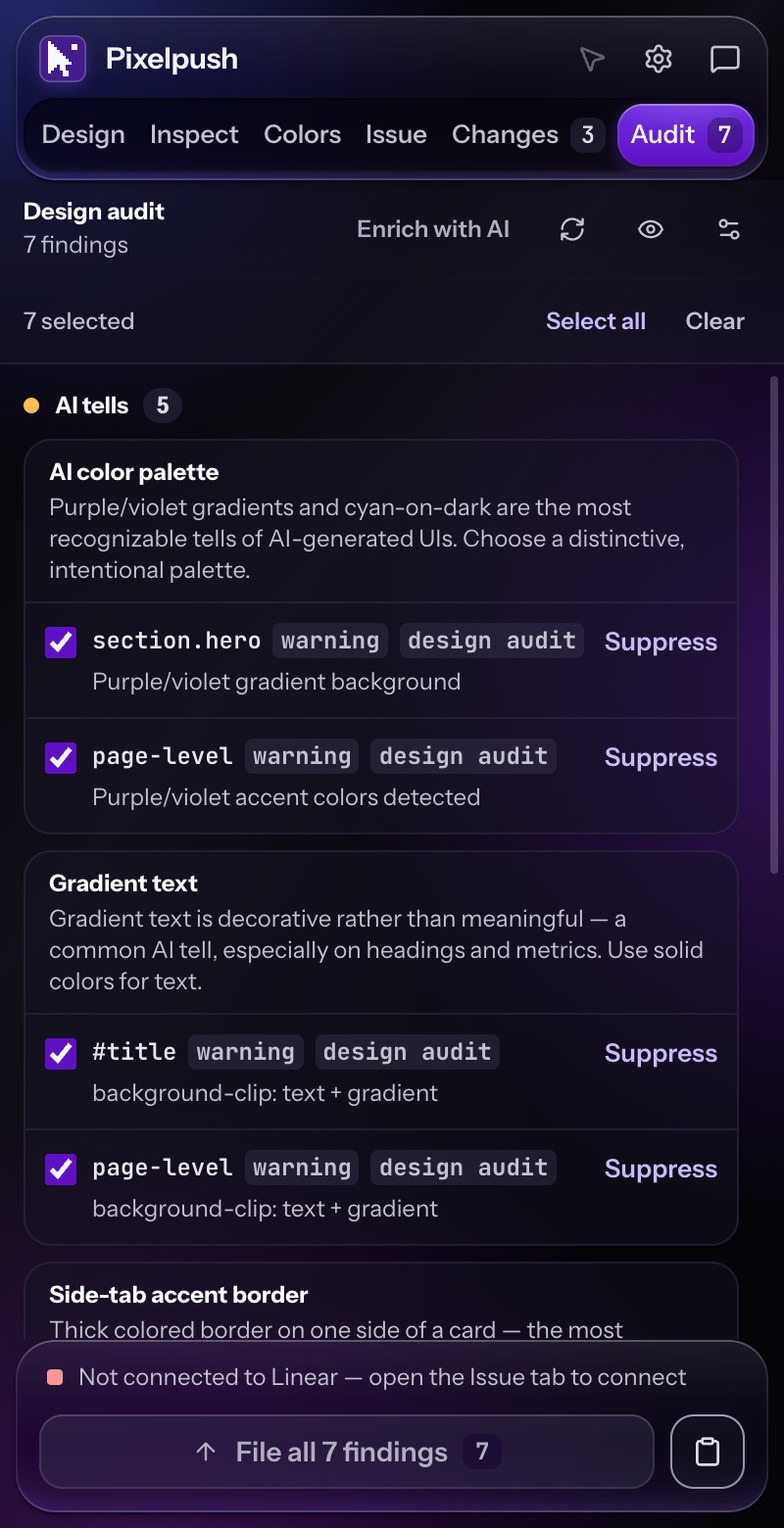
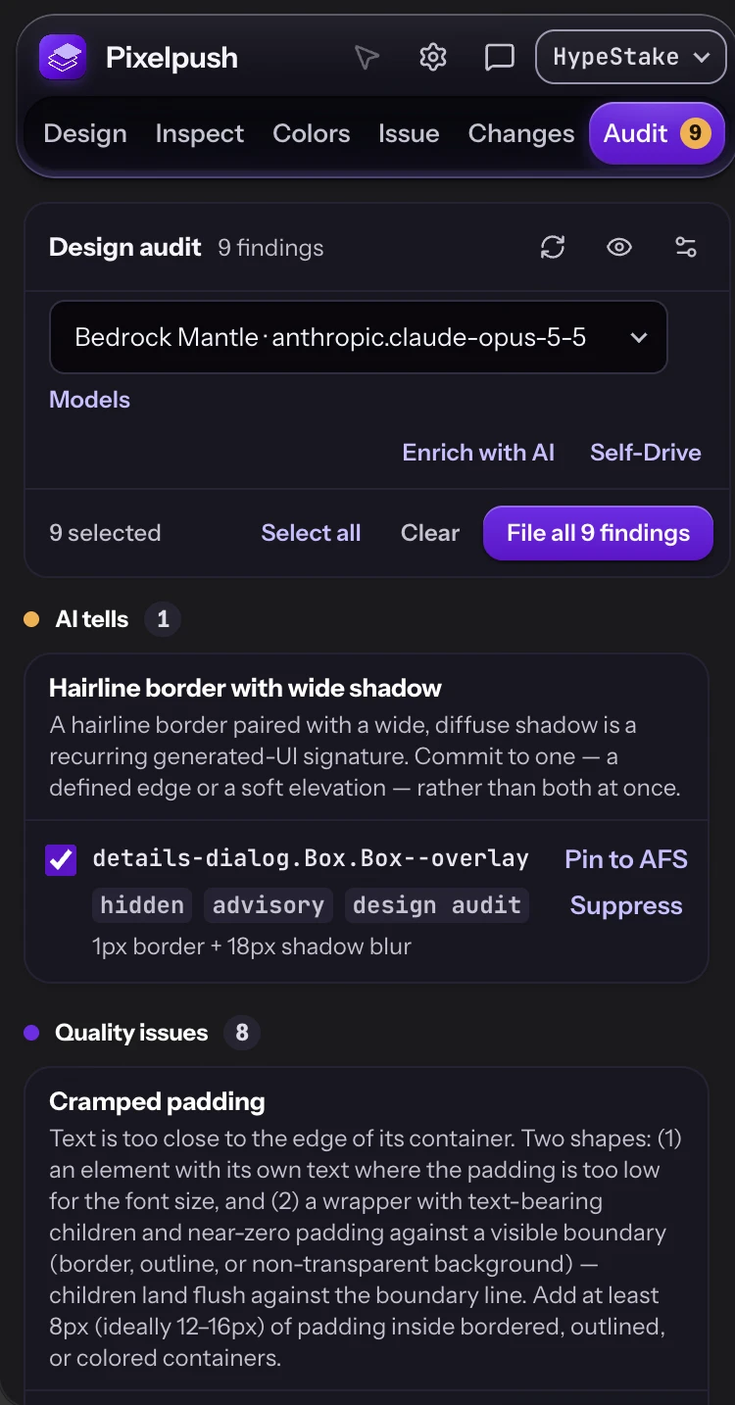
Refresh README and panel screenshots
Replace the Design, Inspect, Issue, Changes and Audit captures with current
ones, regenerate the Settings capture from the preview harness so it matches
the flat theme, and tighten the README: shorter feature and provider tables,
a defined AFS term, clickable screenshots, and alt text that describes the new
images.

Claude-Session: https://claude.ai/code/session_01AiXsPD5Zk4rFSaBgYPosHY

Changed region(s): [[0.0, 0.0, 1.0, 1.0], [0.6133, 0.7364, 0.6747, 0.7671]]

diff --git a/README.md b/README.md
@@ -10,6 +10,8 @@
 <p>
   <a href="#install">Install</a> &nbsp;·&nbsp;
   <a href="#features">Features</a> &nbsp;·&nbsp;
+  <a href="#connect-linear">Linear</a> &nbsp;·&nbsp;
+  <a href="#privacy">Privacy</a> &nbsp;·&nbsp;
   <a href="docs/README.md">Docs</a> &nbsp;·&nbsp;
   <a href="#develop">Develop</a>
 </p>
@@ -23,16 +25,16 @@
 <table>
   <tr>
     <td align="center" valign="top">
-      <img src="docs/screenshots/design.png" width="250" alt="Pixelpush Design tab: the page's element tree above the style editor for the selected element."><br>
-      <sub><b>Design</b>: element tree and live style editor</sub>
+      <a href="docs/screenshots/design.png"><img src="docs/screenshots/design.png" width="250" alt="Pixelpush Design tab: the page's element tree above the annotation fields and style editor for the selected element."></a><br>
+      <sub><b>Design</b>: element tree, notes and live style editor</sub>
     </td>
     <td align="center" valign="top">
-      <img src="docs/screenshots/audit.png" width="250" alt="Pixelpush Audit tab listing design findings grouped into AI tells and quality issues."><br>
+      <a href="docs/screenshots/audit.png"><img src="docs/screenshots/audit.png" width="250" alt="Pixelpush Audit tab: nine findings, an AI model switcher, Enrich with AI and Self-Drive, then findings grouped into AI tells and quality issues."></a><br>
       <sub><b>Audit</b>: findings, highlighted on the page</sub>
     </td>
     <td align="center" valign="top">
-      <img src="docs/screenshots/changes.png" width="250" alt="Pixelpush Changes tab listing the recorded edits with Copy CSS, Copy Tailwind and Reset all."><br>
-      <sub><b>Changes</b>: every edit as a diff</sub>
+      <a href="docs/screenshots/changes.png"><img src="docs/screenshots/changes.png" width="250" alt="Pixelpush Changes tab: export buttons for AFS Markdown, AFS JSON, CSS and Tailwind, MCP sync, and a list of annotations with intent, severity and status."></a><br>
+      <sub><b>Changes</b>: every edit and note, ready to export</sub>
     </td>
   </tr>
 </table>
@@ -41,51 +43,95 @@
 
 ## Why Pixelpush
 
-Pick any element on a page, nudge its styles until it looks right, run a design audit,
-and then send the result to Linear as a ready-to-build issue. An AI model you choose can
-rewrite that issue for you.
+You can see what is wrong with a screen, but writing it up for whoever builds it takes
+longer than the fix would. Pixelpush closes that gap. Pick an element, nudge its styles
+until it looks right, run a design audit, and send the result to Linear as a ready-to-build
+issue. An AI model you choose can rewrite the issue for you.
 
-It is built for the moment when you can see what is wrong with a screen but writing it
-up for whoever builds it takes longer than the fix itself. The issue Pixelpush files
-carries the evidence: a From/To table for every property you changed, the audit findings you
-selected, and the page it came from.
+The issue carries the evidence: a From/To table for every property you changed, the audit
+findings you selected, and the page it came from.
 
 Pixelpush has no backend of its own. Requests go from your browser straight to Linear and
 to the AI provider you configure.
+
+## Install
+
+Pixelpush is not on the Chrome Web Store yet, so you load it unpacked. You need Chrome 116
+or later, the first version that lets an extension open its side panel on demand. There is
+nothing to build.
+
+1. Clone this repository.
+2. Open `chrome://extensions` and switch on **Developer mode**.
+3. Click **Load unpacked** and choose the `extension/` folder.
+4. Pin Pixelpush, then click its toolbar icon to open the side panel.
+
+## Your first fix
+
+1. Open any page and click the Pixelpush icon. Right-clicking the page and choosing
+   **Design with Pixelpush** also opens the panel.
+2. Click an element on the page. Selection mode (the cursor button in the panel header)
+   starts on, and it is unavailable on the Audit tab.
+3. Change a value in the **Design** tab, for example the padding or the font size.
+4. Open **Changes** to see the diff, then use **Copy CSS** or **Copy Tailwind**.
+
+To file it instead, [connect Linear](#connect-linear) and press the primary button in the
+bar at the bottom of the panel. On every tab except Issue it builds a draft in the **Issue**
+tab. Check the title, team and project, then press it again to create the issue.
+[docs/getting-started.md](docs/getting-started.md) walks through the same steps in more detail.
 
 ## Features
 
 | Tab | What you get |
 | --- | --- |
-| **Design** | An element tree for the page, an in-page floating annotation toolbar (**Annotate**, **Place UI**, **Rearrange**, **Draw**, **Self-Drive**, **Freeze**), and a live style editor for layout, spacing, size, colour, type, borders, radius and shadow. |
-| **Inspect** | The selected element's size, colours, font, box model, text/background contrast ratio, **AFS v1.1+ telemetry** (full DOM path, accessibility attributes, framework component stack), and one-click copy as CSS, Tailwind, or **AFS JSON**. |
-| **Colors** | The colours in use on the page, most used first, with the roles each one plays (text, background, border), so you reuse a value instead of inventing one. Filter by hex or role, copy a value, or export the lot as CSS variables. |
-| **Issue** | Writes up your edits, notes, AFS v1.1+ annotations and audit findings as a Linear issue, then files it to the team and project you pick. Also lists recent and matching issues. |
-| **Changes** | Every edit and **AFS v1.1+ annotation** (including pinned notes, placed UI wireframes, rearrangements, drawings, and AI critiques) as a unified diff. Copy as CSS, Tailwind, **AFS Markdown** (`Compact`, `Standard`, `Detailed`, `Forensic`), or **AFS JSON**, or sync live to an MCP server (`http://localhost:4747`). |
-| **Audit** | By default scrolls the page first so lazy-loaded sections exist, then runs 72 checks in two groups, 41 AI tells and 31 quality issues (contrast, tiny text, cramped padding, overused patterns, missing labels and more), highlights each finding on the page, lets you **Pin to AFS**, and supports **Self-Drive** autonomous AI design walkthroughs. How it works: [docs/audit.md](docs/audit.md). |
+| **Design** | An element tree for the page, a floating annotation toolbar on the page (**Annotate**, **Place UI**, **Rearrange**, **Draw**, **Self-Drive**, **Freeze**), per-element notes with intent and severity, and a live style editor for layout, spacing, size, colour, type, borders, radius and shadow. |
+| **Inspect** | The selected element's size, colours, font, box model and text/background contrast ratio, plus its full DOM path, accessibility attributes and framework component stack. Copy it as CSS, Tailwind or AFS JSON. |
+| **Colors** | The colours in use on the page, most used first, with the roles each one plays (text, background, border). Filter by hex or role, copy a value, or export the lot as CSS variables. |
+| **Issue** | Writes up your edits, notes, annotations and audit findings as a Linear issue, then files it to the team and project you pick. Also lists recent and matching issues. |
+| **Changes** | Every edit and annotation (pinned notes, placed UI, rearrangements, drawings, AI critiques) as a diff. Copy as CSS, Tailwind, AFS Markdown (`Compact`, `Standard`, `Detailed` or `Forensic`) or AFS JSON, or push the session to an MCP server (default `http://localhost:4747`). |
+| **Audit** | Scrolls the page first so lazy-loaded sections exist, then runs 72 checks: 41 AI tells and 31 quality issues such as contrast, tiny text, cramped padding, missing labels and overused patterns. Each finding is highlighted on the page, and you can pin it to AFS or suppress it. See [docs/audit.md](docs/audit.md). |
 
-AI features are optional and off until you add a provider. **Rewrite with AI** turns the
-raw capture (including AFS v1.1+ annotations, wireframes, and threads) into a clean issue, **Propose edits** suggests CSS across 34 layout, typography and visual properties (plus the element's text) for the selected element from
-a note you write, **Self-Drive** autonomously walks the page to attach structured AFS v1.1+ design critiques with one-click CSS/text fix proposals, and **Enrich with AI** reviews the audit: it can hide false hits and add
-findings, and the panel drops any suggestion it cannot tie back to the page outline it sent
-(see [How suggestions are checked](docs/audit.md#how-suggestions-are-checked)). You can sign in to multiple AI providers at once, star **Favorite Models (`★`)**, and switch providers or models on the fly from the **AI Quick Switcher** directly inside the Design, Audit, and Issue tabs. The
-**Disable AI features** checkbox in Settings turns all AI features off and keeps your keys.
+**AFS** is the Annotation Format Schema (v1.1+), the structured format Pixelpush uses for
+annotations. The schema is in [`extension/schema/annotation.v1.1.json`](extension/schema/annotation.v1.1.json).
+
+<table>
+  <tr>
+    <td align="center" valign="top">
+      <a href="docs/screenshots/inspect.png"><img src="docs/screenshots/inspect.png" width="250" alt="Pixelpush Inspect tab: size, colours, font, contrast and box model for a table cell, with Copy CSS, Tailwind and AFS JSON buttons."></a><br>
+      <sub><b>Inspect</b>: size, colour, contrast and box model</sub>
+    </td>
+    <td align="center" valign="top">
+      <a href="docs/screenshots/issue.png"><img src="docs/screenshots/issue.png" width="250" alt="Pixelpush Issue tab: a connected Linear workspace, an AI model switcher, the issue composer with team, priority and project, and a list of recent issues."></a><br>
+      <sub><b>Issue</b>: composer and recent Linear issues</sub>
+    </td>
+    <td align="center" valign="top">
+      <a href="docs/screenshots/settings.png"><img src="docs/screenshots/settings.png" width="250" alt="Pixelpush Settings: the Disable AI features checkbox, the Background glow option, app origins and the providers section."></a><br>
+      <sub><b>Settings</b>: AI switch, app origins, providers</sub>
+    </td>
+  </tr>
+</table>
+
+Each tab is covered in [docs/features.md](docs/features.md).
+
+### AI features
+
+AI is optional and off until you add a provider. Four features use it:
+
+- **Rewrite with AI** turns the raw capture, including annotations, wireframes and threads, into a clean issue.
+- **Propose edits** suggests CSS for the selected element, across 34 layout, typography and visual properties plus its text, from a note you write.
+- **Self-Drive** walks the page on its own and attaches structured design critiques, each with a one-click CSS or text fix.
+- **Enrich with AI** reviews the audit. It can hide false hits and add findings, and the panel drops any suggestion it cannot tie back to the page outline it sent (see [How suggestions are checked](docs/audit.md#how-suggestions-are-checked)).
+
+You can stay signed in to several providers at once, star favorite models (`★`), and switch
+between them from the **AI Quick Switcher** in the Design, Audit and Issue tabs. The
+**Disable AI features** checkbox in Settings turns every AI feature off and keeps your keys.
+
+### Keyboard and accessibility
 
 The panel is keyboard operable. The tabs move with the arrow keys, Home and End, Esc closes
 Settings, and the divider between the element tree and the editor resizes with the up and
-down arrow keys. Toasts and status messages are announced through live regions, and motion
-respects `prefers-reduced-motion`. The full key list is in
+down arrow keys. Toasts and status messages go through live regions, and motion respects
+`prefers-reduced-motion`. The full key list is in
 [docs/features.md](docs/features.md#keyboard-navigation-and-accessibility).
-
-<p align="center">
-  <img src="docs/screenshots/inspect.png" width="250" alt="Pixelpush Inspect tab: size, colours, font, contrast and box model for the selected element, with Copy CSS and Tailwind buttons.">
-  &nbsp;&nbsp;
-  <img src="docs/screenshots/issue.png" width="250" alt="Pixelpush Issue tab: a Linear issue draft with title, description, team, project and priority, above a list of recent issues.">
-  <br>
-  <sub><b>Inspect</b> and <b>Issue</b></sub>
-</p>
-
-Each tab is covered in detail in [docs/features.md](docs/features.md).
 
 ### From capture to filed issue
 
@@ -101,66 +147,41 @@ flowchart LR
     rewrite --> linear
 ```
 
-You pick an element and edit it, or you audit the page, or both. Either path ends in an
-issue draft, which you can send through an AI rewrite before it is filed to Linear.
-
-## Install
-
-Pixelpush is not on the Chrome Web Store yet. Load it unpacked:
-
-1. Clone this repository.
-2. Open `chrome://extensions` and switch on **Developer mode**.
-3. Click **Load unpacked** and choose the `extension/` folder.
-4. Pin Pixelpush, then click its toolbar icon to open the side panel.
-
-You need Chrome 116 or later, the first version that lets an extension open its side panel on demand.
-
-## First fix in two minutes
-
-1. Open any page and click the Pixelpush icon.
-2. Click an element on the page. Selection mode (the cursor button in the panel header)
-   starts on and is unavailable on the Audit tab. Right-clicking the page and choosing
-   **Design with Pixelpush** also opens the panel.
-3. Change a value in the **Design** tab, for example the padding or the font size.
-4. Open **Changes** to see the diff, and use **Copy CSS** or **Copy Tailwind**.
-
-To file it instead, connect Linear (below), then press the primary button in the bar at the
-bottom of the panel. On every tab except Issue it builds a draft in the **Issue** tab. Check
-the title, team and project, then press it again to create the issue.
-
-New to the panel? [docs/getting-started.md](docs/getting-started.md) walks through the same
-steps with more detail.
+You edit an element, audit the page, or do both. Either path ends in an issue draft, which
+you can send through an AI rewrite before it is filed to Linear.
 
 ## Connect Linear
 
-Pixelpush files issues with a Linear personal API key.
+Pixelpush files issues with a Linear personal API key. Everything else works without one.
 
 1. In Linear, open **Settings → API** and create a personal API key (it starts with `lin_api_`).
 2. In Pixelpush, open **Issue → Connect Linear** and paste the key.
 
-The key is stored in this Chrome profile's local extension storage and carries your full
-Linear permissions. Linear sign-in through OAuth is not configured in this build.
+The key stays in this Chrome profile's local extension storage and carries your full Linear
+permissions, so treat it like a password. Linear sign-in through OAuth is not configured in
+this build.
 
 Pixelpush treats `localhost`, `127.0.0.1` and `[::1]` as your own app. Add your production
-and staging hosts under **Settings → App origins**. Captures from any other host ask you to
-acknowledge that before they are filed, so you do not send someone else's site to Linear by
+and staging hosts under **Settings → App origins**. A capture from any other host asks you
+to acknowledge that before it is filed, so you do not send someone else's site to Linear by
 accident. Details: [docs/linear.md](docs/linear.md).
 
 ## AI providers
 
 Open **Settings** (gear icon) and add one or more providers. Pixelpush uses the active
-provider, which defaults to the first enabled one.
+provider, which defaults to the first enabled one. Press **Test connection** on a provider
+card to check the key and model.
 
 | Provider | You supply | Notes |
 | --- | --- | --- |
 | OpenAI compatible | Base URL, model, API key | Defaults to `https://api.openai.com/v1` and `gpt-4.1-mini`. Any server that speaks the chat completions API works. |
-| Cloudflare Workers AI | Account ID (or custom Base URL), `@cf/...` model, API token | Calls `https://api.cloudflare.com/client/v4/accounts/<accountId>/ai/v1/chat/completions` with built-in model presets (`@cf/moonshotai/kimi-k2.5`, `@cf/zai-org/glm-4.7-flash`, `@cf/qwen/qwq-32b`, `@cf/qwen/qwen2.5-coder-32b-instruct`, `@cf/deepseek-ai/deepseek-r1-distill-qwen-32b`, `@cf/meta/llama-3.3-70b-instruct-fp8-fast`, `@cf/meta/llama-4-scout-17b-16e-instruct`, `@cf/google/gemma-3-12b-it`) or any custom `@cf/...` ID. |
-| Bedrock Mantle | AWS region (default `us-east-1`), model, Bedrock API key | Models in the menu: `anthropic.claude-opus-5-5`, `openai.gpt-6.1-sol`, `openai.gpt-6.1-terra` (default). Claude Opus 5.5 uses `/anthropic/v1/messages`; GPT 6.1 Sol and Terra use `/openai/v1/responses` with `store: false`. Claude Sonnet 5.5 is not in this menu: the panel notes it is not on Mantle outside GovCloud, so use Bedrock Runtime for it. The key needs `bedrock-mantle:CreateInference`. |
-| Bedrock Runtime | AWS region (default `us-east-1`), model, Bedrock API key | The menu lists `us.` and `global.` inference profiles for GPT 6.1 Sol and Terra (default `us.openai.gpt-6.1-terra`), Claude Opus 5.5, Claude Sonnet 5.5 and Kimi K3 (`us.moonshotai.kimi-k3`, `global.moonshotai.kimi-k3`), which is offered on Runtime only. Any other model ID, including an unprefixed one, is rejected before a request is sent. Claude models use the Anthropic Messages route; GPT 6.1 and Kimi K3 use Chat Completions, with `max_completion_tokens` for GPT 6.1 (if the server answers 400 and names that parameter as unsupported, the request is retried once with the other name). Needs `bedrock:InvokeModel`. |
-| Local CLI | CLI profile (`claude`, `codex`, `grok`, `gemini`, `ollama`, `llm`) or a custom binary path | Talks to a local bridge on `127.0.0.1:58932`. The bridge is **not** included with Pixelpush, so this provider only works if you run your own. |
+| Cloudflare Workers AI | Account ID (or custom Base URL), `@cf/...` model, API token | Calls the account's `ai/v1/chat/completions` endpoint. Eight model presets, or any custom `@cf/...` ID. |
+| Bedrock Mantle | AWS region (default `us-east-1`), model, Bedrock API key | Default model `openai.gpt-6.1-terra`. The key needs `bedrock-mantle:CreateInference`. |
+| Bedrock Runtime | AWS region (default `us-east-1`), model, Bedrock API key | Default model `us.openai.gpt-6.1-terra`. Only the listed `us.` and `global.` inference profiles are accepted. The key needs `bedrock:InvokeModel`. |
+| Local CLI | CLI profile (`claude`, `codex`, `grok`, `gemini`, `ollama`, `llm`) or a custom binary path | Talks to a local bridge on `127.0.0.1:58932`. The bridge is **not** included with Pixelpush, so this provider works only if you run your own. |
 
-Star any model on a provider card (`☆ Favorite` → `★ Favorited`) to pin it to the **Favorite Models (1-Click Switch)** bar and the **AI Quick Switcher** in the Design, Audit, and Issue tabs. Use **Test connection** on each provider card to check the key and model. Per-provider
-details are in [docs/ai-providers.md](docs/ai-providers.md).
+Model lists, endpoints, request formats and error messages for each provider are in
+[docs/ai-providers.md](docs/ai-providers.md).
 
 ## Privacy
 
@@ -168,7 +189,7 @@ Pixelpush has no analytics and no telemetry. Network requests happen only when y
 for them:
 
 - **Linear** (`api.linear.app`) when you connect, list issues or file one.
-- **Your AI provider** at the endpoint you configured, when you press an AI button or
+- **Your AI provider**, at the endpoint you configured, when you press an AI button or
   **Test connection**. The first time an AI button sends something to a provider other
   than Local CLI, Pixelpush asks you to confirm what will be sent. Enrich with AI asks
   separately for each provider type, because it also sends a compact outline of the page
@@ -178,20 +199,20 @@ for them:
 
 Settings sync through your Chrome profile (`chrome.storage.sync`). API keys and the Linear
 credential stay in local extension storage (`chrome.storage.local`) and never sync. The only
-trace of a saved key in synced settings is a short hint, its first three and last four
+trace of a saved key in synced settings is a short hint: its first three and last four
 characters. The content scripts are injected into every page (`<all_urls>`) so the inspector
 is ready as soon as you open the panel.
 
 The extension asks Chrome for the `sidePanel`, `scripting`, `contextMenus` and `storage`
-permissions, plus access to all sites. See
-[docs/privacy-and-permissions.md](docs/privacy-and-permissions.md) for what each one is for.
+permissions, plus access to all sites.
+[docs/privacy-and-permissions.md](docs/privacy-and-permissions.md) explains what each one is for.
 
 ## Develop
 
 The `extension/` folder is the complete, loadable extension: plain files, no build step.
-The side panel, page inspector, audit bridge and background worker are compiled,
-minified bundles. The design-audit detector (`audit/detect.js`) and the panel's design
-layer (`panel/pixelpush.css`) are readable source.
+The side panel, page inspector, audit bridge and background worker are compiled, minified
+bundles. The design-audit detector (`audit/detect.js`) and the panel's design layer
+(`panel/pixelpush.css`) are readable source.
 
 Node 22.2 or later runs the helper scripts. Only `npm run icons` needs `npm install`; the
 others use Node built-ins.
@@ -203,18 +224,19 @@ npm run preview   # serve the side panel in a normal tab at http://localhost:417
 npm run icons     # re-render extension/icons/ from brand/icon.svg
 ```
 
-The preview harness stubs the `chrome.*` APIs and renders the real panel bundle. Add
-`?demo=1` for the built-in sample element and `&motion=off` to freeze transitions for
-screenshots. Behaviour that needs a live page, such as selection, the Audit tab and Linear, only
-works in Chrome. Two fixture pages for the audit sit in `tools/preview/fixtures/`:
-`slop.html` is a deliberately generic, AI-looking page with a section that only exists once
-scrolled into view, and `clean.html` is a negative control that should report little or
-nothing. [docs/audit.md](docs/audit.md#testing-it-yourself) shows how to run the detector on them by hand.
+The preview harness stubs the `chrome.*` APIs and renders the real panel bundle, which is
+how the Settings screenshot was captured. Add `?demo=1` for the built-in sample
+element and `&motion=off` to freeze transitions for screenshots. Behaviour that needs a
+live page, such as selection, the Audit tab and Linear, works only in Chrome.
+
+Two fixture pages for the audit sit in `tools/preview/fixtures/`. `slop.html` is a
+deliberately generic, AI-looking page with a section that only exists once scrolled into
+view, and `clean.html` is a negative control that should report little or nothing.
+[docs/audit.md](docs/audit.md#testing-it-yourself) shows how to run the detector on them by hand.
 
 The look of the panel lives in one readable stylesheet, `extension/panel/pixelpush.css`.
-[docs/DESIGN.md](docs/DESIGN.md) explains the palette, type, shape and motion rules
-behind it, and the layers mark. More in [docs/development.md](docs/development.md) and
-[docs/architecture.md](docs/architecture.md).
+[docs/DESIGN.md](docs/DESIGN.md) explains the palette, type, shape and motion rules behind
+it. More in [docs/development.md](docs/development.md) and [docs/architecture.md](docs/architecture.md).
 
 <details>
 <summary>Repository layout</summary>
@@ -266,7 +288,6 @@ The [documentation hub](docs/README.md) lists every page by what you are trying 
 | [Architecture](docs/architecture.md) | The service worker, content scripts and side panel, and how they work together. |
 | [Development](docs/development.md) | Helper scripts, the preview harness and packaging. |
 | [Design system](docs/DESIGN.md) | The Ultraviolet theme tokens, type, shared field and button states, motion and the layers brand mark. |
-| Assets | [`docs/assets/banner.svg`](docs/assets/banner.svg) and the [`docs/screenshots/`](docs/screenshots) folder. |
 
 ## License
 

diff --git a/docs/features.md b/docs/features.md
@@ -134,7 +134,7 @@ When design mode is active, Pixelpush renders a floating bottom-right toolbar (`
 ## Changes
 
 <p align="center">
-  <img src="screenshots/changes.png" width="320" alt="Pixelpush Changes tab: a change count with Copy CSS, Copy Tailwind and Reset all buttons above edits grouped by element, each showing property, old value and new value.">
+  <img src="screenshots/changes.png" width="320" alt="Pixelpush Changes tab: an item count with AFS Markdown, AFS JSON, Copy CSS, Copy Tailwind and Reset all buttons, an MCP Sync field, and a list of annotations each showing intent, severity, status and the edit made.">
 </p>
 
 <p align="center"><em>Changes: every edit as a diff, ready to copy or file.</em></p>
@@ -174,7 +174,7 @@ pt-[24px] text-[32px]
 ## Audit
 
 <p align="center">
-  <img src="screenshots/audit.png" width="320" alt="Pixelpush Audit tab: a findings count, Enrich with AI, rescan, overlay and settings buttons, then findings grouped under AI tells and Quality issues with checkboxes, severity chips and Suppress controls.">
+  <img src="screenshots/audit.png" width="320" alt="Pixelpush Audit tab: a findings count with rescan, overlay and settings buttons, an AI model switcher with Enrich with AI and Self-Drive, a File all findings button, then findings grouped under AI tells and Quality issues with checkboxes, Pin to AFS and Suppress controls.">
 </p>
 
 <p align="center"><em>Audit: findings grouped by category, each highlighted on the page.</em></p>
@@ -227,7 +227,7 @@ Two row actions appear while AI features are enabled:
 ## Issue
 
 <p align="center">
-  <img src="screenshots/issue.png" width="320" alt="Pixelpush Issue tab: the Linear issue composer with title, description, team, project and priority fields, and a list of recent issues below.">
+  <img src="screenshots/issue.png" width="320" alt="Pixelpush Issue tab: the connected Linear workspace, an AI model switcher with Rewrite with AI, the issue composer with title, description, team, project and priority fields, and a list of recent issues below.">
 </p>
 
 <p align="center"><em>Issue: compose, optionally rewrite with AI, and file to Linear.</em></p>

diff --git a/docs/README.md b/docs/README.md
@@ -39,15 +39,15 @@ Screenshots of the Design, Inspect, Issue, Changes and Audit tabs, plus Settings
   </tr>
   <tr>
     <td align="center" valign="top">
-      <img src="screenshots/changes.png" width="180" alt="Pixelpush Changes tab: the recorded edits with Copy CSS, Copy Tailwind and Reset all."><br>
+      <img src="screenshots/changes.png" width="180" alt="Pixelpush Changes tab: export buttons, MCP sync and the list of annotations and edits."><br>
       <sub><b>Changes</b></sub>
     </td>
     <td align="center" valign="top">
-      <img src="screenshots/audit.png" width="180" alt="Pixelpush Audit tab: findings grouped as AI tells and quality issues."><br>
+      <img src="screenshots/audit.png" width="180" alt="Pixelpush Audit tab: findings grouped as AI tells and quality issues, with an AI model switcher."><br>
       <sub><b>Audit</b></sub>
     </td>
     <td align="center" valign="top">
-      <img src="screenshots/settings.png" width="180" alt="Pixelpush Settings: the Disable AI features checkbox, app origins and AI provider cards."><br>
+      <img src="screenshots/settings.png" width="180" alt="Pixelpush Settings: the Disable AI features checkbox, the Background glow option, app origins and providers."><br>
       <sub><b>Settings</b></sub>
     </td>
   </tr>

diff --git a/docs/linear.md b/docs/linear.md
@@ -68,7 +68,7 @@ Pixelpush stores each connected workspace by its Linear organization id and reme
 Build a draft first: on **Changes** or **Design** press **Create Linear issue**, or on **Audit** press **File N findings** (**File all N findings** when every finding is selected). That fills the composer and opens the Issue tab. Then review the fields and press **Create Linear issue** again.
 
 <p align="center">
-  <img src="screenshots/issue.png" width="320" alt="Pixelpush Issue tab: the Linear issue composer with title, description, team, project and priority fields, and a list of recent issues below.">
+  <img src="screenshots/issue.png" width="320" alt="Pixelpush Issue tab: the connected Linear workspace, an AI model switcher with Rewrite with AI, the issue composer with title, description, team, project and priority fields, and a list of recent issues below.">
 </p>
 
 <p align="center"><em>The Issue tab: composer on top, recent and matching issues below.</em></p>
